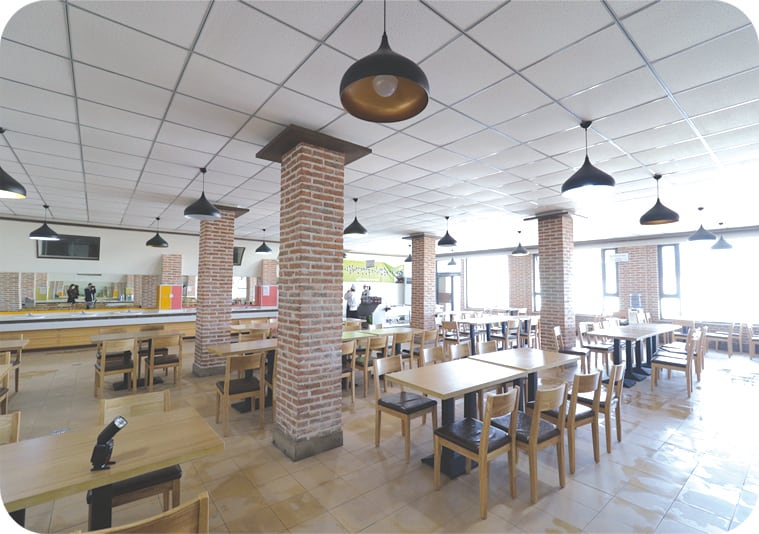
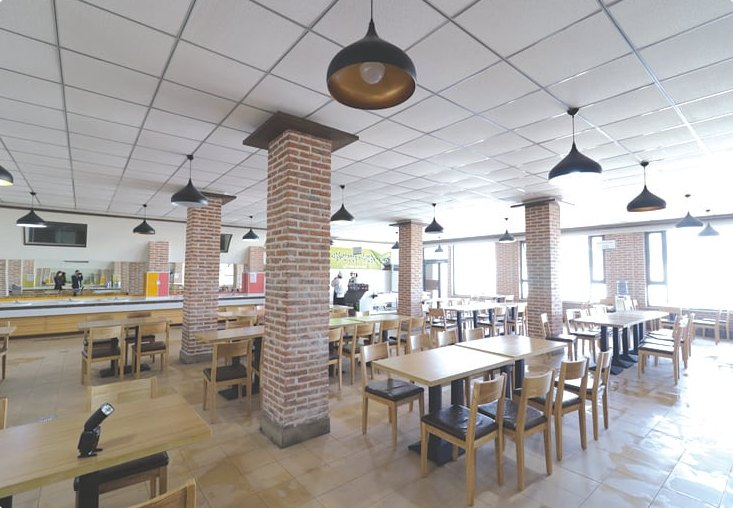
Photo and visual QA pass: mobile header, student-life photos, OG image
- Fix mobile header overflow: at 360-390px the brand line pushed the menu
  button off-screen (html overflow-x is clipped, so the menu was
  unreachable). Wrap the English school name onto two lines on small
  screens and let the brand shrink.
- Boarding: add the official 25-26-2 student meeting photo (QDIS news
  no.292, 2026-03-30) beside the homeroom/dorm/study-hall/parent roles,
  and drop the duplicate study-hall photo from the move-in checklist.
- Home: remove the 340px/1040px caps on the student-activity tiles that
  were left over from the old low-res brochure crops.
- Cafeteria photo: crop the baked-in rounded brochure corners.
- Facilities gallery: descriptive alt text for the three campus exterior
  photos and lead with the main gate.
- Photo registry: point the SKKU briefing to its official post (no.294)
  and resize English Play to 1200px for its tile-only use.
- OG image: 1200x630 from the real main-gate photo with a short title.

Claude-Session: https://claude.ai/code/session_01EYGGikWAApaHdjgznhrqwU

diff --git a/lib/qdis/photos.ts b/lib/qdis/photos.ts
@@ -1,7 +1,8 @@
 /**
- * 사진 레지스트리.
- * 우선순위: 1) 사용자 제공 자료(브로셔)에서 잘라낸 실제 사진  2) 저장소 내 사용허가 사진  3) QDIS 공식 갤러리 게시물 사진(원본 링크)
- * AI 생성 사진·스톡 사진은 사용하지 않습니다. 추가로 필요한 사진은 PHOTO_ASSETS_NEEDED.md 참고.
+ * 사진 레지스트리 — 모든 사진은 청도대원학교 실제 사진만 사용합니다(AI 생성·스톡 사진 사용 금지).
+ * 우선순위: 1) QDIS 공식 사진 갤러리(학교소식) 게시물 원본  2) QDIS 공식 '학교 시설' 페이지 스냅샷(data/facilities.json)
+ * 원본은 웹용으로 리사이즈해 public/images/qdis/ 아래에 저장하고, 외부 hotlink는 쓰지 않습니다.
+ * 교체·추가 후보는 PHOTO_ASSETS_NEEDED.md 참고.
  */
 export type Photo = {
   id: string;
@@ -22,16 +23,17 @@ export type Photo = {
 };
 
 export const PHOTOS: Record<string, Photo> = {
-  cafeteria: {id: 'cafeteria', src: '/images/qdis/facilities/facility-03.jpg', alt: '청도대원학교 학교 직영 구내식당 내부', credit: 'QDIS 공식 학교 시설 갤러리', sourceUrl: 'https://qdis.org/gallery/index.html?no=7', width: 759, height: 534},
+  cafeteria: {id: 'cafeteria', src: '/images/qdis/facilities/facility-03.jpg', alt: '청도대원학교 학교 직영 구내식당 내부', credit: 'QDIS 공식 학교 시설 갤러리', sourceUrl: 'https://qdis.org/gallery/index.html?no=7', width: 733, height: 508},
   studyHall: {id: 'studyHall', src: '/images/qdis/facilities/facility-10.jpg', alt: '개인 칸막이 좌석이 놓인 청도대원학교 기숙생 자습실', credit: 'QDIS 공식 학교 시설 갤러리', sourceUrl: 'https://qdis.org/gallery/index.html?no=7', width: 690, height: 460},
   dormRoom: {id: 'dormRoom', src: '/images/qdis/facilities/facility-20.jpg', alt: '2층 침대와 개인 수납장이 있는 청도대원학교 기숙사 4인실', credit: 'QDIS 공식 학교 시설 갤러리', sourceUrl: 'https://qdis.org/gallery/index.html?no=7', width: 690, height: 460, label: '기숙사 4인실', sub: 'Dormitory'},
   classroom: {id: 'classroom', src: '/images/qdis/facilities/facility-07.jpg', alt: '전자칠판과 학생 책상이 있는 청도대원학교 교실', credit: 'QDIS 공식 학교 시설 갤러리', sourceUrl: 'https://qdis.org/gallery/index.html?no=7', width: 690, height: 460, label: '교실', sub: 'Classroom'},
-  seminar: {id: 'seminar', src: '/images/qdis/gallery/skku-admissions-briefing-2026-04-14.jpg', alt: '성균관대학교 입학사정관이 교실에서 재외국민 입시설명회를 진행하고 학생들이 듣고 있다', credit: 'QDIS 공식 사진 갤러리', sourceUrl: 'https://qdis.org/board/index.html?id=news', postTitle: '2026 성균관대 재외국민 입시설명회', postDate: '2026-04-14', width: 1920, height: 1079, label: '성균관대학교 입학 설명회', sub: 'SKKU Admissions Briefing'},
+  seminar: {id: 'seminar', src: '/images/qdis/gallery/skku-admissions-briefing-2026-04-14.jpg', alt: '성균관대학교 입학사정관이 교실에서 재외국민 입시설명회를 진행하고 학생들이 듣고 있다', credit: 'QDIS 공식 사진 갤러리 「성균관대학교 입학설명회」', sourceUrl: 'https://qdis.org/board/index.html?id=news&no=294', postTitle: '성균관대학교 입학설명회', postDate: '2026-04-14', width: 1920, height: 1079, label: '성균관대학교 입학 설명회', sub: 'SKKU Admissions Briefing'},
   piDay2026: {id: 'piDay2026', src: '/images/qdis/gallery/pi-day-2026.jpg', alt: '청도대원학교 학생들이 교내 Pi Day 수학 활동 설명을 듣고 있다', credit: 'QDIS 공식 사진 갤러리 「Pi Day 2026」', sourceUrl: 'https://qdis.org/board/index.html?id=news&no=291', postTitle: 'Pi Day 2026', postDate: '2026-03-30', width: 1600, height: 1200, label: 'Pi Day 2026', sub: 'Math Activity'},
   sportsDayGroup2026: {id: 'sportsDayGroup2026', src: '/images/qdis/gallery/sports-day-2026-group.jpg', alt: '제9회 청도대원 체육대회에 참여한 학생들이 단체사진을 찍고 있다', credit: 'QDIS 공식 사진 갤러리 「제9회 청도대원 체육대회」', sourceUrl: 'https://qdis.org/board/index.html?id=news&no=297', postTitle: '제9회 청도대원 체육대회', postDate: '2026-06-03', width: 1600, height: 555, label: '체육대회', sub: 'Sports Day 2026'},
   sportsDayBasketball2026: {id: 'sportsDayBasketball2026', src: '/images/qdis/gallery/sports-day-2026-basketball.jpg', alt: '제9회 청도대원 체육대회에서 학생들이 농구 경기를 하고 있다', credit: 'QDIS 공식 사진 갤러리 「제9회 청도대원 체육대회」', sourceUrl: 'https://qdis.org/board/index.html?id=news&no=297', postTitle: '제9회 청도대원 체육대회', postDate: '2026-06-03', width: 1600, height: 1067, label: '농구 경기', sub: 'Sports Day 2026'},
   wscAward2026: {id: 'wscAward2026', src: '/images/qdis/gallery/wsc-award-2026.jpg', alt: 'World Scholar’s Cup 2026 수상 트로피를 든 청도대원학교 학생들', credit: 'QDIS 공식 사진 갤러리 「WSC Award 2026」', sourceUrl: 'https://qdis.org/board/index.html?id=news&no=295', postTitle: 'WSC Award 2026', postDate: '2026-05-25', width: 1600, height: 900, label: 'WSC Award 2026', sub: 'World Scholar’s Cup'},
-  englishPlay2026: {id: 'englishPlay2026', src: '/images/qdis/gallery/english-play-2026.jpg', alt: 'The 3rd QDIS English Play 무대에서 공연 후 포즈를 취한 청도대원학교 학생들', credit: 'QDIS 공식 사진 갤러리 「The 3rd QDIS English Play」', sourceUrl: 'https://qdis.org/board/index.html?id=news&no=298', postTitle: 'The 3rd QDIS English Play', postDate: '2026-06-04', width: 1600, height: 1067, label: 'English Play', sub: 'Student Stage'},
+  englishPlay2026: {id: 'englishPlay2026', src: '/images/qdis/gallery/english-play-2026.jpg', alt: 'The 3rd QDIS English Play 무대에서 공연 후 포즈를 취한 청도대원학교 학생들', credit: 'QDIS 공식 사진 갤러리 「The 3rd QDIS English Play」', sourceUrl: 'https://qdis.org/board/index.html?id=news&no=298', postTitle: 'The 3rd QDIS English Play', postDate: '2026-06-04', width: 1200, height: 800, label: 'English Play', sub: 'Student Stage'},
+  studentMeeting2026: {id: 'studentMeeting2026', src: '/images/qdis/gallery/student-meeting-2026.jpg', alt: '회의실 테이블에 둘러앉은 청도대원학교 학생들과 교사들이 학생 간담회에서 이야기를 나누고 있다', credit: 'QDIS 공식 사진 갤러리 「25-26-2 학생 간담회」', sourceUrl: 'https://qdis.org/board/index.html?id=news&no=292', postTitle: '25-26-2 학생 간담회', postDate: '2026-03-30', width: 1400, height: 1050, label: '학생 간담회', sub: 'Student Meeting'},
 };
 
 /** 역할별 배정 (공식 갤러리 사진 확보 시 여기만 바꾸면 전체 반영) */

diff --git a/src/pages/Life.tsx b/src/pages/Life.tsx
@@ -36,11 +36,17 @@ export function BoardingPage() {
       <section className="section sand" id="management">
         <div className="wrap">
           <SecHead eyebrow="Student Management" title="담임·사감·교사가 나눠 보는 게 아니라, 한 학생의 하루를 연결해서 봅니다" lede="QDIS의 학생관리는 기숙사 통제만을 뜻하지 않습니다. 학업·생활·건강·학부모 소통을 서로 연결해 학생이 학교 안에서 어떻게 지내는지 확인하는 구조입니다." />
-          <div className="pillars">
-            <div className="pillar"><span className="kicker">Homeroom</span><h3>담임</h3><p>학교생활과 학업 상황을 확인하고 학부모와 소통합니다. 필요한 경우 사감·교과 교사와 학생 상황을 공유합니다.</p></div>
-            <div className="pillar"><span className="kicker">Dormitory</span><h3>남녀 사감</h3><p>기숙사 생활규칙과 귀소, 야간 건강상태를 관리하고 응급상황에는 병원 동행과 보호자 연락을 맡습니다.</p></div>
-            <div className="pillar"><span className="kicker">Study Hall</span><h3>감독 교사</h3><p>야간 자율학습을 별도 자습실에서 운영하며 학생별 학습 상황과 참여를 확인합니다.</p></div>
-            <div className="pillar"><span className="kicker">Parent View</span><h3>Thinkwave · WeChat</h3><p>학부모는 Thinkwave에서 과제·출결·성적을 확인하고, 담임과 기숙사 WeChat을 통해 생활 상황을 공유받습니다.</p></div>
+          <div className="mgmt-layout">
+            <figure className="mgmt-photo">
+              <Img id="studentMeeting2026" />
+              <p className="cap">2025–26학년도 2학기 학생 간담회 · 학생들과 교사가 학교생활을 두고 이야기를 나누는 자리</p>
+            </figure>
+            <div className="pillars stack">
+              <div className="pillar"><span className="kicker">Homeroom</span><h3>담임</h3><p>학교생활과 학업 상황을 확인하고 학부모와 소통합니다. 필요한 경우 사감·교과 교사와 학생 상황을 공유합니다.</p></div>
+              <div className="pillar"><span className="kicker">Dormitory</span><h3>남녀 사감</h3><p>기숙사 생활규칙과 귀소, 야간 건강상태를 관리하고 응급상황에는 병원 동행과 보호자 연락을 맡습니다.</p></div>
+              <div className="pillar"><span className="kicker">Study Hall</span><h3>감독 교사</h3><p>야간 자율학습을 별도 자습실에서 운영하며 학생별 학습 상황과 참여를 확인합니다.</p></div>
+              <div className="pillar"><span className="kicker">Parent View</span><h3>Thinkwave · WeChat</h3><p>학부모는 Thinkwave에서 과제·출결·성적을 확인하고, 담임과 기숙사 WeChat을 통해 생활 상황을 공유받습니다.</p></div>
+            </div>
           </div>
           <Source>2025–26 학교생활안내 ‘기숙사 생활 안내’·‘생활 지도’·학부모 소통 안내</Source>
         </div>
@@ -116,7 +122,6 @@ export function BoardingPage() {
               <span className="eyebrow">Move-in Checklist</span>
               <h2 className="h2">입사할 때<br />챙길 것</h2>
               <p className="lede" style={{marginTop: 18}}>이불·베개·침대 시트·패드는 학교가 1인 1개씩 지급합니다. 개인 물품에는 영문 이름을 써 주세요.</p>
-              <div style={{marginTop: 26}}><Img id="studyHall" ratio="4x3" /><p className="cap">기숙생 자습실</p></div>
             </div>
             <div className="cols-2">
               <div className="prose"><h3>생활</h3><ul><li>간편복·잠옷, 주말 외출복, 교복·생활복</li><li>운동화·실내화·욕실화</li><li>양말·속옷 1주일 분량, 수건 5장, 옷걸이 10개</li><li>세면도구, 개인 상비약(기본 상비약은 학교에 있음)</li><li>(선택) 영문 이름을 쓴 세탁망</li></ul></div>

diff --git a/src/styles.css b/src/styles.css
@@ -108,6 +108,14 @@ em.mark { font-style: normal; color: var(--brass); }
 .menu-btn[aria-expanded='true'] span:nth-child(2) { opacity: 0; }
 .menu-btn[aria-expanded='true'] span:nth-child(3) { transform: translateY(-6px) rotate(-45deg); }
 .mobile-panel { display: none; }
+@media (max-width: 560px) {
+  .site-header .wrap { gap: 12px; }
+  .brand { flex-shrink: 1; min-width: 0; gap: 10px; }
+  .brand-mark { width: 36px; height: 36px; font-size: 14px; flex: none; }
+  .brand-text small { font-size: 8.5px; letter-spacing: .1em; line-height: 1.35; }
+  .brand-text small span { display: block; }
+  .menu-btn { flex: none; }
+}
 
 @media (max-width: 1180px) {
   .main-nav, .header-cta.desk { display: none; }
@@ -228,6 +236,13 @@ em.mark { font-style: normal; color: var(--brass); }
 .pillar h3 { font-family: var(--serif); font-weight: 600; font-size: 25px; margin: 14px 0 14px; line-height: 1.3; }
 .pillar p { color: var(--muted); font-size: 15.5px; }
 .pillar .tlink { margin-top: 18px; font-size: 15px; }
+.mgmt-layout { display: grid; grid-template-columns: minmax(0, 7fr) minmax(0, 5fr); gap: clamp(28px, 4vw, 64px); align-items: start; }
+.mgmt-photo { margin: 0; }
+.pillars.stack { grid-template-columns: minmax(0, 1fr); }
+.pillars.stack .pillar, .pillars.stack .pillar + .pillar { padding: 20px 0 22px; border-left: 0; }
+.pillars.stack .pillar + .pillar { border-top: 1px solid var(--line); }
+.pillars.stack .pillar h3 { font-size: 21px; margin: 8px 0 8px; }
+@media (max-width: 900px) { .mgmt-layout { grid-template-columns: minmax(0, 1fr); } }
 @media (max-width: 1080px) { .pillars { grid-template-columns: 1fr 1fr; } .pillar:nth-child(3) { padding-left: 0; border-left: 0; } .pillar:nth-child(n+3) { border-top: 1px solid var(--line); } }
 @media (max-width: 620px) { .pillars { grid-template-columns: 1fr; } .pillar, .pillar + .pillar { padding: 26px 0; border-left: 0; } .pillar + .pillar { border-top: 1px solid var(--line); } }
 
@@ -679,7 +694,7 @@ em.mark { font-style: normal; color: var(--brass); }
 .photo-pair { display: grid; grid-template-columns: minmax(0,1fr) minmax(0,1fr); gap: 16px; align-self: start; max-width: 600px; }
 .life-tiles { display: grid; grid-template-columns: repeat(4, minmax(0, 1fr)); gap: 20px; margin-top: clamp(56px, 6vw, 88px); }
 .life-tile { text-decoration: none; display: block; }
-.life-tile .photo { display: block; max-width: 340px; }
+.life-tile .photo { display: block; }
 .life-tile b { display: block; margin-top: 12px; font-size: 16px; }
 .life-tile small { display: block; color: var(--soft); font-size: 13px; }
 @media (max-width: 860px) { .life-tiles { grid-template-columns: minmax(0,1fr) minmax(0,1fr); } }
@@ -716,7 +731,6 @@ em.mark { font-style: normal; color: var(--brass); }
   .day-switch { display: flex; width: 100%; }
   .day-switch button { flex: 1; padding: 11px 6px; font-size: 14px; }
 }
-.life-tiles { max-width: 1040px; }
 
 
 /* ---------- QDIS official facilities gallery ---------- */

diff --git a/components/layout/Layout.tsx b/components/layout/Layout.tsx
@@ -8,7 +8,7 @@ function Brand() {
       <span className="brand-mark" aria-hidden="true">QD</span>
       <span className="brand-text">
         <b>청도대원학교</b>
-        <small>QINGDAO DAEWON INTERNATIONAL SCHOOL</small>
+        <small>QINGDAO DAEWON <span>INTERNATIONAL SCHOOL</span></small>
       </span>
     </a>
   );
@@ -67,7 +67,7 @@ export function Footer() {
           <div>
             <a className="brand" href="/" aria-label="홈">
               <span className="brand-mark" aria-hidden="true">QD</span>
-              <span className="brand-text"><b>청도대원학교</b><small>QINGDAO DAEWON INTERNATIONAL SCHOOL</small></span>
+              <span className="brand-text"><b>청도대원학교</b><small>QINGDAO DAEWON <span>INTERNATIONAL SCHOOL</span></small></span>
             </a>
             <p className="tns">
               이 사이트는 <b>{t.name}</b>({t.legal})가 청도대원학교 한국 입학상담 지원을 위해 운영하는 한국어 안내 사이트입니다. 학교 공식 자료를 바탕으로 작성하며, 학교 공식 홈페이지와 별도로 운영됩니다.

diff --git a/PHOTO_ASSETS_NEEDED.md b/PHOTO_ASSETS_NEEDED.md
@@ -4,23 +4,24 @@
 
 ## 현재 주요 화면 사진
 
-| 용도 | 현재 사진 | 해상도/상태 |
-|---|---|---|
-| 홈 Hero | Pi Day 2026 학생 활동 | 1600×1200 · 로컬 저장 |
-| 대원/학교소개 | 성균관대학교 입학설명회 | 1920×1079 · 로컬 저장 |
-| 기숙사 | 실제 4인실 | 690×460 · 공식 시설 스냅샷 |
-| Study Hall | 기숙생 전용 자습실 | 690×460 · 공식 시설 스냅샷 |
-| 급식/식당 | 학교 직영 식당 | 759×534 · 공식 시설 스냅샷 |
-| 학생활동 | 제9회 체육대회 | 1600px · 로컬 저장 |
-| 학생활동 | The 3rd QDIS English Play | 1600px · 로컬 저장 |
-| 학생활동 | WSC Award 2026 | 1600×900 · 로컬 저장 |
-| 대학 합격 결과 상단 | 성균관대학교 입학설명회 | 1920×1079 · 로컬 저장 |
-| 하루 일과 상단 | 제9회 체육대회 농구 | 1600px · 로컬 저장 |
-| 학교소식 상단 | The 3rd QDIS English Play | 1600px · 로컬 저장 |
+| 용도 | 현재 사진 | 출처 게시물 | 해상도/상태 |
+|---|---|---|---|
+| 홈 Hero | Pi Day 2026 학생 활동 | 학교소식 no.291 (2026-03-30) | 1600×1200 · 로컬 저장 |
+| 학교소개 캠퍼스 대표 | 성균관대학교 입학설명회 | 학교소식 no.294 (2026-04-14) | 1920×1079 · 로컬 저장 |
+| 대학 합격 결과 상단 | 성균관대학교 입학설명회 | 학교소식 no.294 (2026-04-14) | 1920×1079 · 로컬 저장 |
+| 기숙사·학생관리 | 학생 간담회 | 학교소식 no.292 (2026-03-30) | 1400×1050 · 로컬 저장 |
+| 기숙사 | 실제 4인실 | 공식 학교 시설 페이지 | 690×460 · 시설 스냅샷 |
+| Study Hall | 기숙생 전용 자습실 | 공식 학교 시설 페이지 | 690×460 · 시설 스냅샷 |
+| 급식/식당 | 학교 직영 식당 | 공식 학교 시설 페이지 | 733×508 · 시설 스냅샷(브로셔식 둥근 모서리 제거) |
+| 학생활동 | 제9회 체육대회 단체·농구 | 학교소식 no.297 (2026-06-03) | 1600px · 로컬 저장 |
+| 학생활동 | The 3rd QDIS English Play | 학교소식 no.298 (2026-06-04) | 1200×800 · 로컬 저장 |
+| 학생활동 | WSC Award 2026 | 학교소식 no.295 (2026-05-25) | 1600×900 · 로컬 저장 |
+| 하루 일과 상단 | 제9회 체육대회 농구 | 학교소식 no.297 (2026-06-03) | 1600px · 로컬 저장 |
+| 공유 이미지(OG) | 학교 정문 + 짧은 문구 | 공식 학교 시설 페이지 | 1200×630 · `public/og/qdis-og.jpg` |
 
 ## 학교 시설 사진
 
-공식 `학교 시설` 페이지에서 확보한 20장의 사진을 다음 위치에 스냅샷으로 저장합니다. 2026-09-23 Preview QA에서 웹용 JPEG로 재압축해 큰 원본의 전송량을 줄였습니다.
+공식 `학교 시설` 페이지에서 확보한 20장의 사진을 다음 위치에 스냅샷으로 저장합니다. 2026-09-23 Preview QA에서 웹용 JPEG로 재압축해 큰 원본의 전송량을 줄였고, 학교소개 시설 갤러리는 정문 사진(facility-04)을 맨 앞에 둡니다.
 
 - manifest: `data/facilities.json`
 - assets: `public/images/qdis/facilities/`
